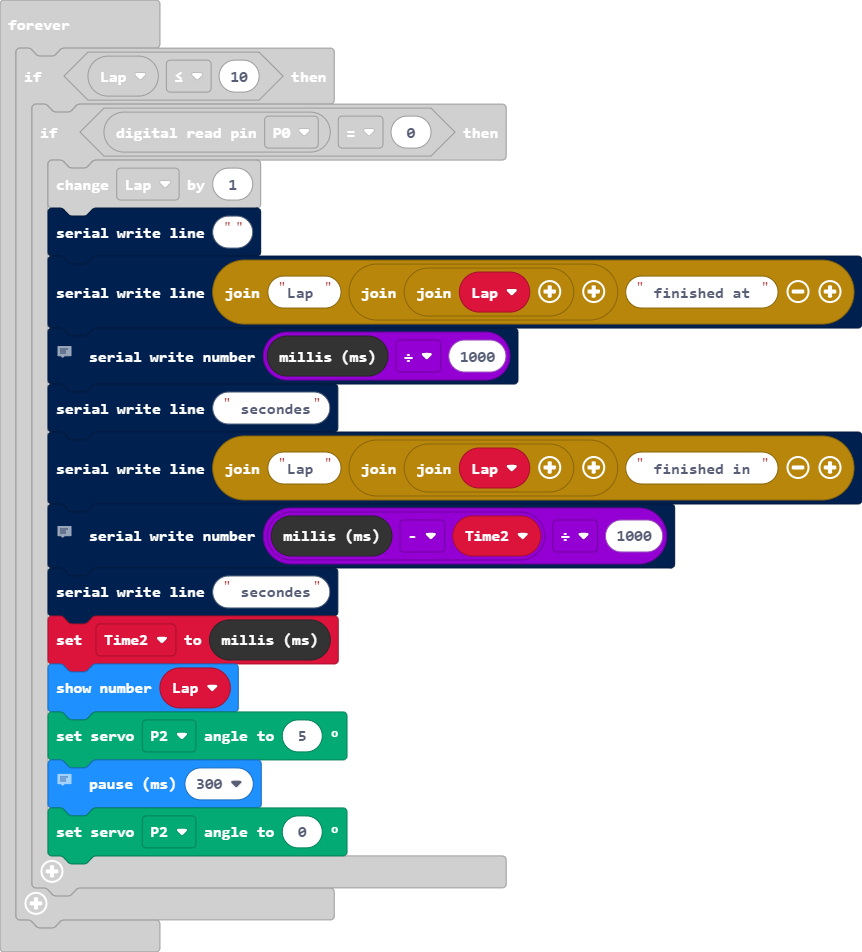
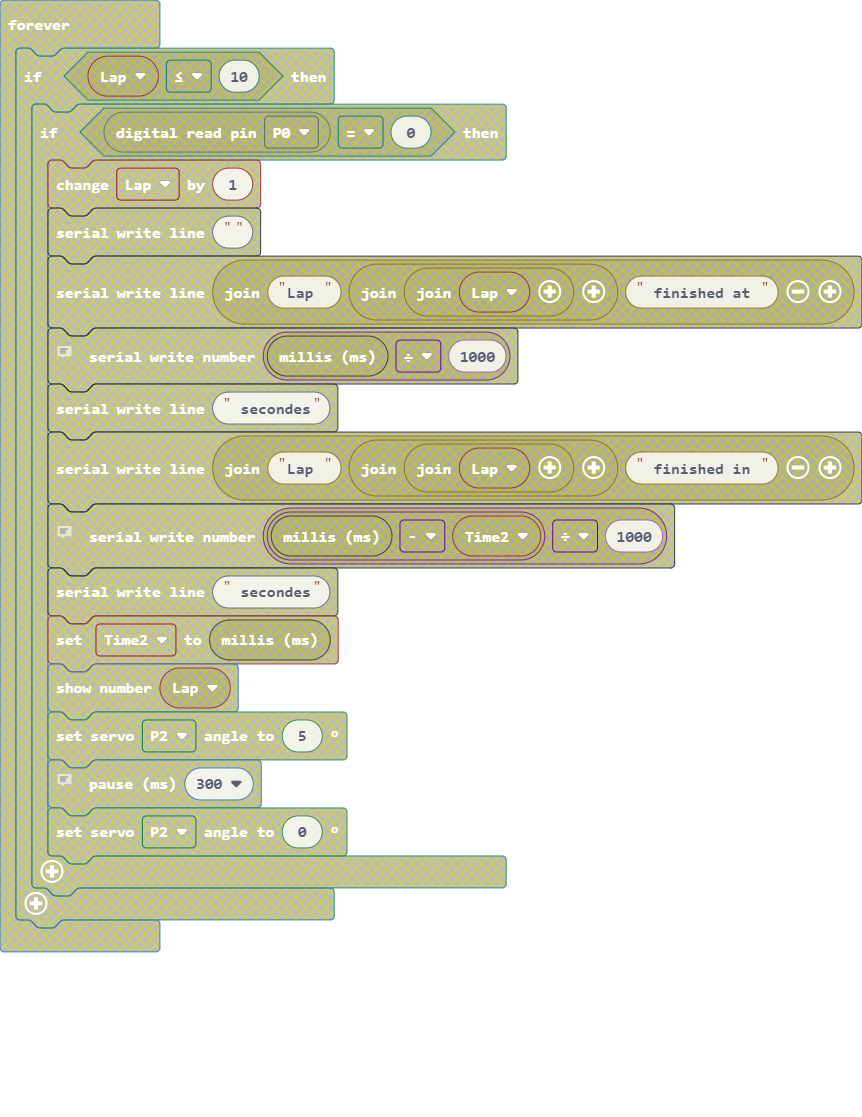
Version 1.0.0: Program fonctionel avec indications

diff --git a/main.ts b/main.ts
@@ -10,20 +10,24 @@ basic.showLeds(`
 basic.pause(100)
 basic.clearScreen()
 servos.P2.setAngle(0)
+/**
+ * Startup et preparations du program
+ */
 basic.forever(function () {
     if (Lap <= 10) {
         if (BitMaker.read_Din_value(GrovePort.P0) == 0) {
             Lap += 1
             serial.writeLine("")
             serial.writeLine("Lap " + ("" + Lap) + " finished at ")
-            // Montrer le numero du tour avec le temps totale
+            // Montrer le numero du tour avec le temps totale en secondes
             serial.writeNumber(control.millis() / 1000)
             serial.writeLine(" secondes")
             serial.writeLine("Lap " + ("" + Lap) + " finished in ")
-            // Montrer le numero du tour avec le temps du tour
+            // Montrer le numero du tour avec le temps du tour en secondes
             serial.writeNumber((control.millis() - Time2) / 1000)
             serial.writeLine(" secondes")
             Time2 = control.millis()
+            // Variable "checkpoint" pour trouver le temps du prochain tour
             basic.showNumber(Lap)
             servos.P2.setAngle(5)
             // Agitation de drapeau

diff --git a/main.py b/main.py
@@ -1,10 +1,5 @@
-"""
-
-Sets the necessary variables in place
-
-"""
+#Startup et preparations du program
 Time2 = 0
-Time = 0
 Lap = 0
 basic.show_leds("""
     . . . . #
@@ -16,27 +11,23 @@ basic.show_leds("""
 basic.pause(100)
 basic.clear_screen()
 servos.P2.set_angle(0)
-"""
-
-Startup logo to demonstrate a successfull startup.
-
-"""
 
 def on_forever():
-    global Lap, Time2, Time
+    global Lap, Time2
     if Lap <= 10:
         if BitMaker.read_Din_value(GrovePort.P0) == 0:
             Lap += 1
-            serial.write_line("Lap " + ("" + str(Lap)) + " finished in ")
-            # Write the lap number and the duration it took to finish said lap.
-            serial.write_number(Time)
-            serial.write_line("secondes")
-            Time2 = Time + Time2
+            serial.write_line("")
             serial.write_line("Lap " + ("" + str(Lap)) + " finished at ")
-            # Write the lap number and the total duration that has passed.
-            serial.write_number(Time2)
-            serial.write_line("secondes")
-            Time = 0
+            # Montrer le numero du tour avec le temps totale en secondes
+            serial.write_number(control.millis() / 1000)
+            serial.write_line(" secondes")
+            serial.write_line("Lap " + ("" + str(Lap)) + " finished in ")
+            # Montrer le numero du tour avec le temps du tour en secondes
+            serial.write_number((control.millis() - Time2) / 1000)
+            serial.write_line(" secondes")
+            Time2 = control.millis()
+            #Variable "checkpoint" pour trouver le temps du prochain tour
             basic.show_number(Lap)
             servos.P2.set_angle(5)
             # Agitation de drapeau
